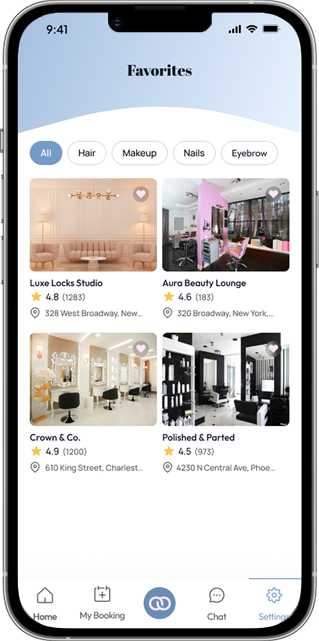
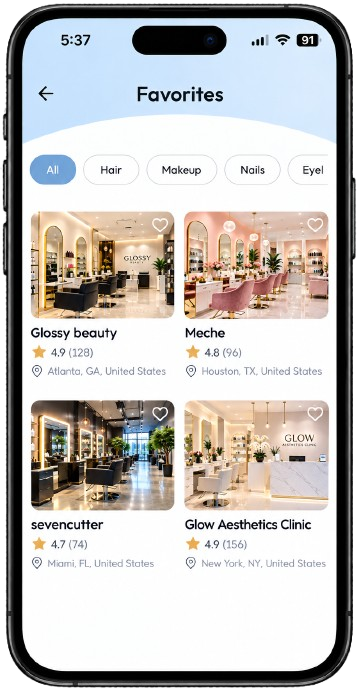
responsiveness fixes

diff --git a/components/home/sub-plans.tsx b/components/home/sub-plans.tsx
@@ -139,11 +139,11 @@ const PlanCard = ({ plan }: { plan: Plan }) => {
         </span>
       ) : null}
 
-      <h3 className={`text-[17px] font-semibold ${plan.badge ? "pr-24" : ""}`}>
+      <h3 className={`text-[17px] max-[421px]:text-[15px] font-semibold ${plan.badge ? "pr-24" : ""}`}>
         {plan.name}
       </h3>
 
-      <p className="mt-3 text-[20px] font-bold leading-tight">{plan.price}</p>
+      <p className="mt-3 text-[20px] max-[421px]:text-[18px] font-bold leading-tight">{plan.price}</p>
 
       {plan.save ? (
         <p
@@ -160,7 +160,7 @@ const PlanCard = ({ plan }: { plan: Plan }) => {
           <li key={feature.text} className="flex items-start gap-2.5">
             <CheckIcon featured={featured} />
             <div className="min-w-0">
-              <p className="text-[14px] leading-snug">{feature.text}</p>
+              <p className="text-[14px] max-[421px]:text-[13px] leading-snug">{feature.text}</p>
               {feature.note ? (
                 <p
                   className={`mt-0.5 text-[11px] leading-snug ${
@@ -206,10 +206,10 @@ const SubscriptionPlans = () => {
       >
         <SwiperSlide>
           <div className="mb-6 text-center">
-            <h2 className="mb-4 text-4xl font-semibold text-[#0E1724]">
-              Client Subscription plans
+            <h2 className="mb-4 text-4xl max-[421px]:text-[28px] font-semibold text-[#0E1724]">
+              Client Subscription Plans
             </h2>
-            <p className="mx-auto max-w-5xl text-lg font-light text-[#1E1E1E]">
+            <p className="mx-auto max-w-5xl text-lg max-[421px]:text-base font-light text-[#1E1E1E]">
               Book your favorite beauty services in seconds, while professionals manage and grow their business with ease.
             </p>
           </div>
@@ -220,10 +220,10 @@ const SubscriptionPlans = () => {
 
         <SwiperSlide>
           <div className="mb-6 text-center">
-            <h2 className="mb-4 text-4xl font-semibold text-[#0E1724]">
-              Professional Subscription plans
+            <h2 className="mb-4 text-4xl max-[421px]:text-[28px] font-semibold text-[#0E1724]">
+              Professional Subscription Plans
             </h2>
-            <p className="mx-auto max-w-5xl text-lg font-light text-[#1E1E1E]">
+            <p className="mx-auto max-w-5xl text-lg max-[421px]:text-base font-light text-[#1E1E1E]">
               Manage clients, bookings, and payments with ease all in one app.
             </p>
           </div>
@@ -234,26 +234,26 @@ const SubscriptionPlans = () => {
 
         <SwiperSlide>
           <div className="mb-8 text-center">
-            <h2 className="mb-3 text-4xl font-semibold text-[#0E1724]">
-              Beauty Suite Owner Subscription plans
+            <h2 className="mb-3 text-4xl max-[421px]:text-[28px] font-semibold text-[#0E1724]">
+              Beauty Suite Owner Subscription Plans
             </h2>
-            <p className="text-lg font-light text-[#1E1E1E]">
+            <p className="text-lg max-[421px]:text-base font-light text-[#1E1E1E]">
               Salon Suite Owner Free Trial for one month
             </p>
-            <p className="text-lg font-light text-[#1E1E1E]">
+            <p className="text-lg max-[421px]:text-base font-light text-[#1E1E1E]">
               Includes all Premium plan features plus team tools
             </p>
           </div>
 
           <div className="flex flex-col gap-8 px-4 md:px-6 lg:flex-row">
             <div className="w-full rounded-3xl bg-[#759CC9] p-8 text-white shadow-lg lg:w-[30%]">
-              <div className="mb-6 grid grid-cols-3 text-sm font-semibold">
+              <div className="mb-6 grid grid-cols-3 text-sm max-[421px]:text-xs font-semibold">
                 <span>Package</span>
                 <span className="text-center">Employees</span>
                 <span className="text-right">Price</span>
               </div>
 
-              <div className="space-y-6 text-sm">
+              <div className="space-y-6 text-sm max-[421px]:text-xs">
                 {[
                   ["Starter Suite", "1–3", "$49.99"],
                   ["Growing Suite", "4–7", "$74.99"],
@@ -271,13 +271,13 @@ const SubscriptionPlans = () => {
 
             <div className="w-full rounded-3xl border border-gray-200 bg-[#F3F4F6] p-8 lg:w-[70%]">
               <div className="mb-6 grid grid-cols-[minmax(7.5rem,44%)_1fr] border-b border-gray-300 pb-4 md:grid-cols-[30%_70%]">
-                <h3 className="pr-3 font-bold text-[#0E1724] md:pr-4">Category</h3>
-                <h3 className="border-l border-gray-300 pl-3 font-bold text-[#0E1724] md:pl-6">
+                <h3 className="pr-3 font-bold text-[#0E1724] max-[421px]:text-sm md:pr-4">Category</h3>
+                <h3 className="border-l border-gray-300 pl-3 font-bold text-[#0E1724] max-[421px]:text-sm md:pl-6">
                   Details
                 </h3>
               </div>
 
-              <div className="space-y-6 text-sm">
+              <div className="space-y-6 text-sm max-[421px]:text-xs">
                 <FeatureRow
                   label="Premium Plan Inclusion"
                   detail="Includes all Premium Solo Pro features, plus exclusive team tools"
@@ -363,8 +363,8 @@ const SubscriptionPlans = () => {
 
 const FeatureRow = ({ label, detail }: { label: string; detail: React.ReactNode }) => (
   <div className="grid grid-cols-[minmax(7.5rem,44%)_1fr] items-start md:grid-cols-[30%_70%]">
-    <div className="pr-3 font-medium text-[#0E1724] md:pr-4">{label}</div>
-    <div className="border-l border-gray-300 pl-3 leading-relaxed text-[#4B5563] md:pl-6">
+    <div className="pr-3 font-medium text-[#0E1724] max-[421px]:text-xs md:pr-4">{label}</div>
+    <div className="border-l border-gray-300 pl-3 leading-relaxed text-[#4B5563] max-[421px]:text-xs md:pl-6">
       {detail}
     </div>
   </div>

diff --git a/components/home/about.tsx b/components/home/about.tsx
@@ -27,15 +27,15 @@ const AboutSection = () => {
         <div className="max-w-7xl mx-auto relative z-10">
           {/* Top Intro */}
           <div className="text-center mb-6">
-            <p className="text-[#759CC9] font-semibold font-inter text-2xl md:text-[30px] md:mb-2">
+            <p className="text-[#759CC9] font-semibold font-inter text-2xl max-[421px]:text-xl md:text-[30px] md:mb-2">
               Beauty Booking. Made Simple.
             </p>
-            <h2 className="text-3xl md:text-5xl font-bold text-[#0E1724] mb-6">
+            <h2 className="text-3xl max-[421px]:text-2xl md:text-5xl font-bold text-[#0E1724] mb-6">
               About Booqly
             </h2>
           </div>
 
-          <p className="text-[#1E1E1E] leading-relaxed max-w-5xl mx-auto text-center mb-12 font-inter font-light text-base md:text-lg">
+          <p className="text-[#1E1E1E] leading-relaxed max-w-5xl mx-auto text-center mb-12 font-inter font-light text-base max-[421px]:text-sm md:text-lg">
             Booqly is a beauty booking platform created to simplify how clients discover 
             professionals and how beauty pros and suite owners manage and grow their businesses.
           </p>
@@ -43,7 +43,7 @@ const AboutSection = () => {
           {/* Grid: Client Info */}
           <div className="grid grid-cols-1 md:grid-cols-2 items-center gap-12">
             <div className="order-2 md:order-1 md:-mt-20">
-              <p className="text-[#1E1E1E] leading-relaxed font-light text-base md:text-lg text-center md:text-left">
+              <p className="text-[#1E1E1E] leading-relaxed font-light text-base max-[421px]:text-sm md:text-lg text-center md:text-left">
                 For clients, Booqly offers verified reviews, ID-verified professionals, and a smooth, 
                 secure booking experience that prioritizes your time and your trust. From your first 
                 visit to your forever stylist, it helps you discover professionals you can rely on.
@@ -67,7 +67,7 @@ const AboutSection = () => {
 
           {/* Right: Text Content */}
           <div className="flex justify-center md:justify-center md:mt-28 relative z-10">
-            <p className="text-[#1E1E1E] text-base md:text-lg font-inter font-light leading-relaxed text-center w-full">
+            <p className="text-[#1E1E1E] text-base max-[421px]:text-sm md:text-lg font-inter font-light leading-relaxed text-center w-full">
               For solo beauty professionals, Booqly is more than a booking system. It 
               gives you another platform to be seen beyond your own social media.  
               You can grow your brand, build your portfolio, and manage your business 
@@ -105,7 +105,7 @@ const AboutSection = () => {
 
           {/* Left: Text Content */}
           <div className="flex justify-center md:mt-65 order-2 md:order-1">
-            <p className="text-[#1E1E1E] leading-relaxed text-center md:text-left font-light font-inter sm:text-base md:text-lg w-[90%] sm:w-[95%] md:w-full md:max-w-xl">
+            <p className="text-[#1E1E1E] leading-relaxed text-center md:text-left font-light font-inter text-base max-[421px]:text-sm md:text-lg w-[90%] sm:w-[95%] md:w-full md:max-w-xl">
               For salon suite owners, Booqly helps you run your space with confidence.
               You can manage your team, track performance, organize bookings, and grow
               your business with purpose and structure.
@@ -115,7 +115,7 @@ const AboutSection = () => {
 
         {/* Bottom Closing Statement */}
         <div className="max-w-7xl mx-auto mt-16 md:ml-30 text-center relative z-10 px-4 md:px-0">
-          <p className="text-[#1E1E1E] leading-relaxed text-[15px] sm:text-base md:text-lg font-light font-inter w-[90%] sm:w-[95%] md:w-auto mx-auto">
+          <p className="text-[#1E1E1E] leading-relaxed text-[15px] max-[421px]:text-xs sm:text-base md:text-lg font-light font-inter w-[90%] sm:w-[95%] md:w-auto mx-auto">
             Everything you see in Booqly comes from real experience.
             Every feature has a purpose and every tool solves a problem.
           </p>

diff --git a/components/home/professional-steps.tsx b/components/home/professional-steps.tsx
@@ -61,11 +61,11 @@ const ProfessionalSteps = () => {
         
         {/* Header */}
         <div className="mb-8 sm:mb-20">
-          <h2 className="text-4xl md:text-5xl font-bold text-[#0E1724]">
+          <h2 className="text-4xl max-[454px]:text-[28px] md:text-5xl font-bold text-[#0E1724]">
             Simple steps to Grow <br />
             <span className="text-[#759CC9]">(For Professionals)</span>
           </h2>
-          <p className="text-[#1E1E1E] mt-4 max-w-2xl mx-auto font-light text-lg">
+          <p className="text-[#1E1E1E] mt-4 max-w-2xl mx-auto font-light text-lg max-[421px]:text-base">
             Manage clients, bookings, and payments with ease — all in one app.
           </p>
         </div>
@@ -134,25 +134,25 @@ const ProfessionalSteps = () => {
 
               {/* Mobile Card */}
               <div
-                className="xl:hidden flex items-center w-full shadow-lg rounded-xl p-4 gap-4"
+                className="xl:hidden flex items-center w-full shadow-lg rounded-xl p-4 max-[454px]:p-3 gap-4 max-[454px]:gap-2"
                 style={{ backgroundColor: step.hexColor }}
               >
                 <Image
                   src={step.icon}
                   width={80}
                   height={80}
-                  className="w-20 h-20 flex-shrink-0"
+                  className="w-20 h-20 max-[454px]:w-14 max-[454px]:h-14 flex-shrink-0"
                   alt={step.title}
                 />
-                <div className="flex-1 text-center">
-                  <h4 className="text-xl font-bold text-white">
+                <div className="flex-1 min-w-0 text-center">
+                  <h4 className="text-xl max-[454px]:text-[15px] max-[454px]:whitespace-nowrap font-bold text-white">
                     {step.title}
                   </h4>
-                  <p className="text-sm text-white mt-1 leading-snug">
+                  <p className="text-sm max-[421px]:text-xs text-white mt-1 leading-snug">
                     {step.desc}
                   </p>
                 </div>
-                <span className="text-3xl font-bold text-black flex-shrink-0">
+                <span className="text-3xl max-[454px]:text-2xl font-bold text-black flex-shrink-0">
                   {step.id}
                 </span>
               </div>

diff --git a/components/home/booking-steps.tsx b/components/home/booking-steps.tsx
@@ -53,11 +53,11 @@ export default function BookingSteps() {
         
         {/* Section Heading */}
         <div className="mb-8 sm:mb-16">
-          <h2 className="text-4xl md:text-5xl font-bold text-[#0E1724]">
+          <h2 className="text-4xl max-[454px]:text-[28px] md:text-5xl font-bold text-[#0E1724]">
             Simple steps to book <br />
             <span className="text-[#759CC9]">(For Clients)</span>
           </h2>
-          <p className="text-[#1E1E1E] mt-4 max-w-2xl mx-auto font-light text-lg">
+          <p className="text-[#1E1E1E] mt-4 max-w-2xl mx-auto font-light text-lg max-[421px]:text-base">
             Find verified professionals near you and book with confidence.
           </p>
         </div>
@@ -125,13 +125,13 @@ export default function BookingSteps() {
               </div>
 
               {/* Mobile Card */}
-              <div className="xl:hidden flex items-center w-full bg-white shadow-lg rounded-xl p-4 gap-4">
-                <Image src={step.icon} width={80} height={80} className="flex-shrink-0" alt={step.title} />
-                <div className="flex-1 text-center">
-                  <h3 className="text-xl font-bold text-[#333]">{step.title}</h3>
-                  <p className="text-sm text-[#333] mt-1 leading-snug">{step.desc}</p>
+              <div className="xl:hidden flex items-center w-full bg-white shadow-lg rounded-xl p-4 max-[454px]:p-3 gap-4 max-[454px]:gap-2">
+                <Image src={step.icon} width={80} height={80} className="flex-shrink-0 max-[454px]:w-14 max-[454px]:h-14" alt={step.title} />
+                <div className="flex-1 min-w-0 text-center">
+                  <h3 className="text-xl max-[454px]:text-[15px] max-[454px]:whitespace-nowrap font-bold text-[#333]">{step.title}</h3>
+                  <p className="text-sm max-[421px]:text-xs text-[#333] mt-1 leading-snug">{step.desc}</p>
                 </div>
-                <span className="text-3xl font-bold text-[#759CC9] flex-shrink-0">{step.id}</span>
+                <span className="text-3xl max-[454px]:text-2xl font-bold text-[#759CC9] flex-shrink-0">{step.id}</span>
               </div>
             </div>
           ))}

diff --git a/components/home/contact.tsx b/components/home/contact.tsx
@@ -44,11 +44,11 @@ const ContactSection = () => {
         
         {/* Left Side */}
         <div className="flex-1 w-full">
-          <h2 className="text-3xl text-center md:text-start md:text-7xl font-semibold font-inter text-[#0E1724] md:-mt-15 mb-5">
+          <h2 className="text-3xl max-[421px]:text-[24px] text-center md:text-start md:text-7xl font-semibold font-inter text-[#0E1724] md:-mt-15 mb-5">
             Get In Touch
           </h2>
 
-          <p className="text-[#1E1E1E] text-center md:text-left text-[16px] md:text-[20px] font-light mb-8 leading-relaxed">
+          <p className="text-[#1E1E1E] text-center md:text-left text-[16px] max-[421px]:text-sm md:text-[20px] font-light mb-8 leading-relaxed">
             Questions or requests regarding this Policy
             <br className="block md:hidden" /> can be sent to:
           </p>
@@ -173,10 +173,10 @@ const ContactSection = () => {
         <div className="flex flex-col items-center gap-6">
           <div className="flex items-center gap-2">
              <Image src="/images/sms.svg" alt="Email" width={20} height={20} className="w-5 h-5" />
-             <p className="text-[#0E1724] font-medium">support@booqlyapp.com</p>
+             <p className="text-[#0E1724] font-medium max-[421px]:text-sm">support@booqlyapp.com</p>
           </div>
           <div className="text-center">
-             <p className="text-[#0E1724] font-medium leading-relaxed">
+             <p className="text-[#0E1724] font-medium max-[421px]:text-sm leading-relaxed">
                2086 Jodeco Road #1009, McDonough, GA 30253
              </p>
           </div>

diff --git a/components/home/why-you-love-it.tsx b/components/home/why-you-love-it.tsx
@@ -32,7 +32,7 @@ const WhyYouLoveIt = () => {
                     className="w-8 h-8 md:w-10 md:h-10"
                   />
                 </div>
-                <span className="text-base md:text-lg lg:text-xl text-[#1E1E1E] font-light">
+                <span className="text-base max-[421px]:text-sm md:text-lg lg:text-xl text-[#1E1E1E] font-light">
                   {feature}
                 </span>
               </div>
@@ -55,13 +55,13 @@ const WhyYouLoveIt = () => {
 
         {/* Right Column (Heading + Description + CTAs) - Appears first on mobile */}
         <div className="text-center lg:text-left order-1 lg:order-3 lg:pl-8">
-          <p className="text-[#759CC9] font-semibold text-lg md:text-xl mb-4 tracking-wide">
+          <p className="text-[#759CC9] font-semibold text-lg max-[421px]:text-base md:text-xl mb-4 tracking-wide">
             Features
           </p>
-          <h2 className="text-2xl md:text-3xl lg:text-4xl font-bold text-[#0E1724]">
+          <h2 className="text-2xl max-[421px]:text-xl md:text-3xl lg:text-4xl font-bold text-[#0E1724]">
             Why You’ll Love It
           </h2>
-          <div className="mt-6 text-[#1E1E1E] text-sm md:text-[16px] lg:text-[18px] leading-relaxed font-light max-w-md mx-auto lg:mx-0">
+          <div className="mt-6 text-[#1E1E1E] text-sm max-[421px]:text-xs md:text-[16px] lg:text-[18px] leading-relaxed font-light max-w-md mx-auto lg:mx-0">
             <p>
               Verified clients and pros, secure payments, and dual reviews you can trust.
             </p>

diff --git a/app/page.tsx b/app/page.tsx
@@ -52,14 +52,14 @@ export default function Home() {
 
           {/* Right: Text Content */}
           <div className="relative z-10 text-center lg:text-left space-y-6 order-1 lg:order-2">
-            <p className="text-lg font-medium text-[#759CC9] tracking-wide">
+            <p className="text-lg max-[421px]:text-base font-medium text-[#759CC9] tracking-wide">
               Welcome to Booqly
             </p>
-            <h1 className="text-4xl md:text-6xl font-extrabold text-[#0E1724] leading-tight">
+            <h1 className="text-4xl max-[421px]:text-[28px] md:text-6xl font-extrabold text-[#0E1724] leading-tight">
               Beauty Booking.<br />
               <span className="">Made Simple.</span>
             </h1>
-            <p className="text-[#1E1E1E] text-base md:text-lg max-w-md mx-auto lg:mx-0 font-light leading-relaxed">
+            <p className="text-[#1E1E1E] text-base max-[421px]:text-sm md:text-lg max-w-md mx-auto lg:mx-0 font-light leading-relaxed">
               Your trusted beauty marketplace connecting clients with solo pros and salon suite owners.
             </p>
 

diff --git a/components/home/download-cta.tsx b/components/home/download-cta.tsx
@@ -9,10 +9,10 @@ const DownloadCTA = () => {
       <div className="max-w-7xl mx-auto px-6 md:px-12 lg:px-20 grid grid-cols-1 lg:grid-cols-2 items-center lg:items-end gap-12 relative">
         {/* Left Content */}
         <div className="text-center lg:text-left relative order-1 lg:order-none z-10 lg:pb-16">
-          <h2 className="text-3xl sm:text-4xl lg:text-5xl font-semibold text-[#0E1724] mb-6">
+          <h2 className="text-3xl max-[421px]:text-[24px] sm:text-4xl lg:text-5xl font-semibold text-[#0E1724] mb-6">
             Download app today!
           </h2>
-          <p className="text-[#1E1E1E] text-base sm:text-lg md:text-xl font-light mb-8 mx-auto lg:mx-0 leading-relaxed max-w-xs sm:max-w-sm md:max-w-sm">
+          <p className="text-[#1E1E1E] text-base max-[421px]:text-sm sm:text-lg md:text-xl font-light mb-8 mx-auto lg:mx-0 leading-relaxed max-w-xs sm:max-w-sm md:max-w-sm">
             Download app for Android, iOS & iPadOS today — free trials and paid
             plans available.
           </p>

diff --git a/components/home/footer.tsx b/components/home/footer.tsx
@@ -19,7 +19,7 @@ const Footer = () => {
           </div>
 
           {/* Mobile Links (Grid layout for better thumb reach) */}
-          <nav className="grid grid-cols-3 gap-y-4 gap-x-6 text-sm text-[#0E1724] text-center">
+          <nav className="grid grid-cols-3 gap-y-4 gap-x-6 text-sm max-[421px]:text-xs text-[#0E1724] text-center">
             <a href="#about-us" className="hover:text-[#759CC9] transition-colors">Overview</a>
             <Link href="/our-founder" className="hover:text-[#759CC9] transition-colors">Our Founder</Link>
             <a href="#pricing" className="hover:text-[#759CC9] transition-colors">Pricing</a>
